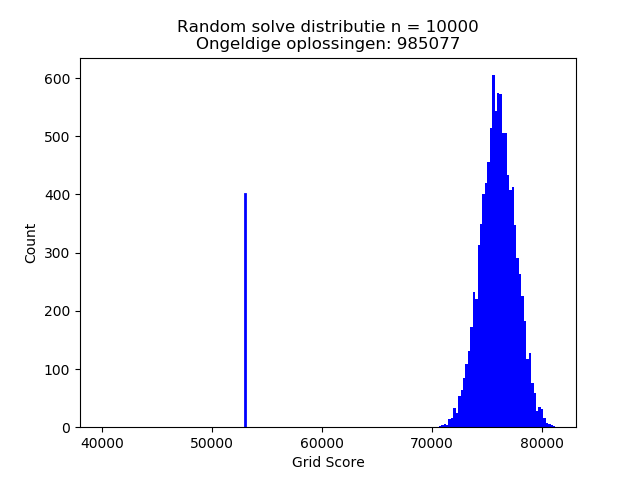
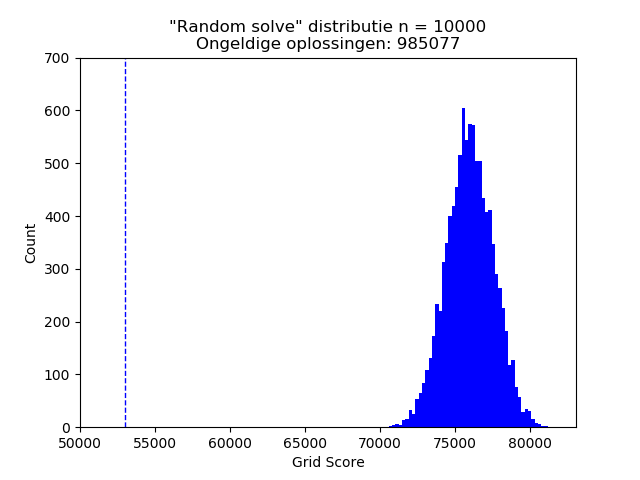
Results ReadMe test

diff --git a/Code/Helper_Functions/make_plot.py b/Code/Helper_Functions/make_plot.py
@@ -32,6 +32,6 @@ plt.plot([53000, 53000], [0, 750], 'b--', lw=1)
 plt.xlabel('Grid Score')
 plt.ylabel('Count')
 plt.title(title_string)
-plt.xlim(xmin = 38000)
+plt.xlim(xmin = 50000)
 plt.ylim(ymax = 700)
 plt.show()

diff --git a/README.md b/README.md
@@ -49,7 +49,7 @@ in tabellen en figuren zijn uitgebeeld.
 
 ### Test (Testing)
 
-TO DO (hoe instrueren we de gebruik omtrent het gebruik van onze code?)
+TO DO (hoe instrueren we de gebruiker omtrent het gebruik van onze code?)
 
 ```
 python main.py

diff --git a/Results/README.md b/Results/README.md
@@ -1,0 +1,5 @@
+# Belangrijke resultaten
+
+## Bounds en dichtheid oplossingen
+
+![alt text](Figures/distribution_normal.png)
